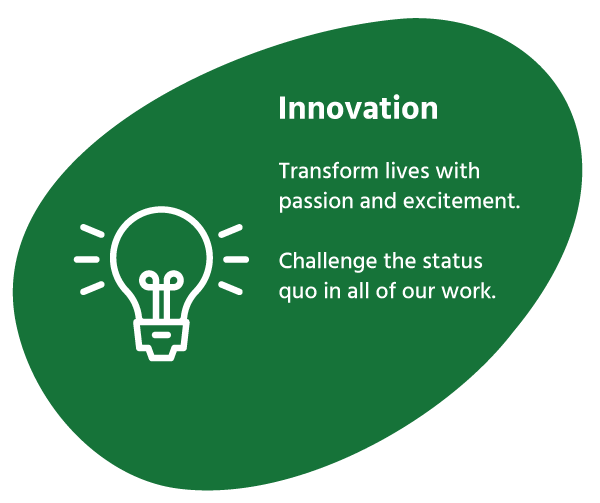
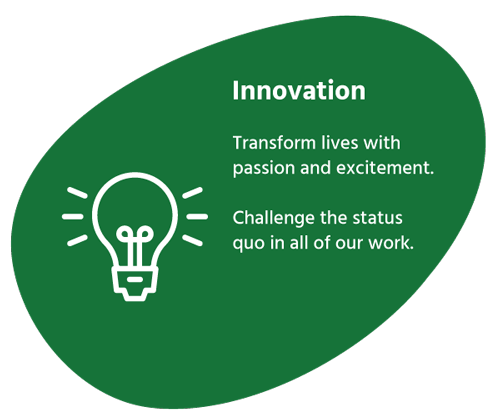
review fix

diff --git a/australia/share/css/common.css b/australia/share/css/common.css
@@ -5519,7 +5519,7 @@ div#message-president .box-image{
 .box-corevalue-top .box-corevalue-wrapper .parts-innovation {
   right: 1.33333vw;
   bottom: -132vw;
-  width: 63.86667vw;
+  width: 65vw;
 }
 
 .box-corevalue-top .box-corevalue-wrapper .parts-innovation .parts-feature-before.minimum ~ .parts-feature-after {
@@ -5535,9 +5535,9 @@ div#message-president .box-image{
 }
 
 .box-corevalue-top .box-corevalue-wrapper .parts-integrity {
-  bottom: -176vw;
+  bottom: -170.5vw;
   left: 0;
-  width: 53.73333vw;
+  width: 65vw;
 }
 
 .box-corevalue-top .box-corevalue-wrapper .parts-integrity .parts-feature-before.minimum ~ .parts-feature-after {
@@ -5555,8 +5555,8 @@ div#message-president .box-image{
 
 .box-corevalue-top .box-corevalue-wrapper .parts-temwork {
   right: 0;
-  bottom: -220vw;
-  width: 60.66667vw;
+  bottom: -225vw;
+  width: 65vw;
 }
 
 .box-corevalue-top .box-corevalue-wrapper .parts-temwork .parts-feature-before.minimum ~ .parts-feature-after {
@@ -13178,7 +13178,7 @@ ul.dot-list li{ padding-bottom: 10px;}
 .map-area .map-image {position:unset !important;}
 .map-area .map-link { position: absolute; width: 2.9%; height: 4.55%; z-index: 2;}
 
-.map-area .map-link-ko {left: 60.8%;top: 12.0%;}
+.map-area .map-link-ko {left: 61.5%;top: 13.3%;}
 .map-area .map-link-ch {left: 58.2%;top: 17.9%;}
 .map-area .map-link-tw {left: 59.6%;top: 25.8%;}
 .map-area .map-link-kk {left: 53.8%;top: 27.8%;}
